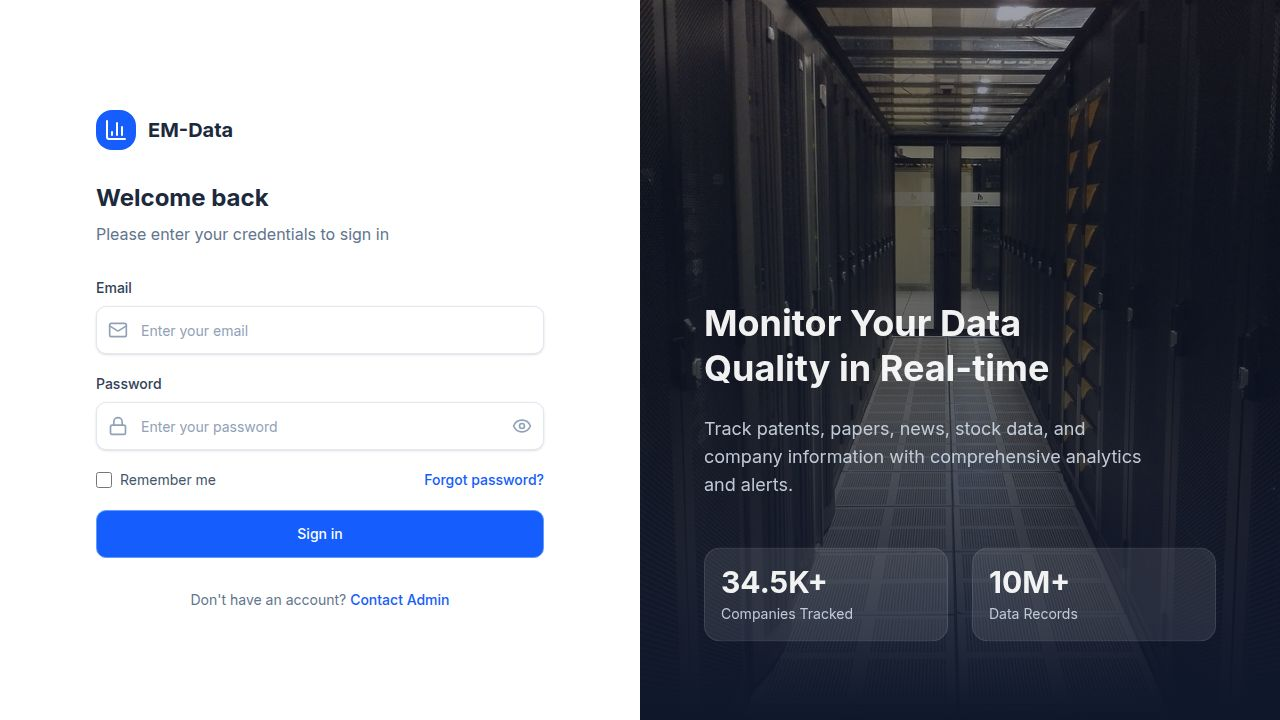
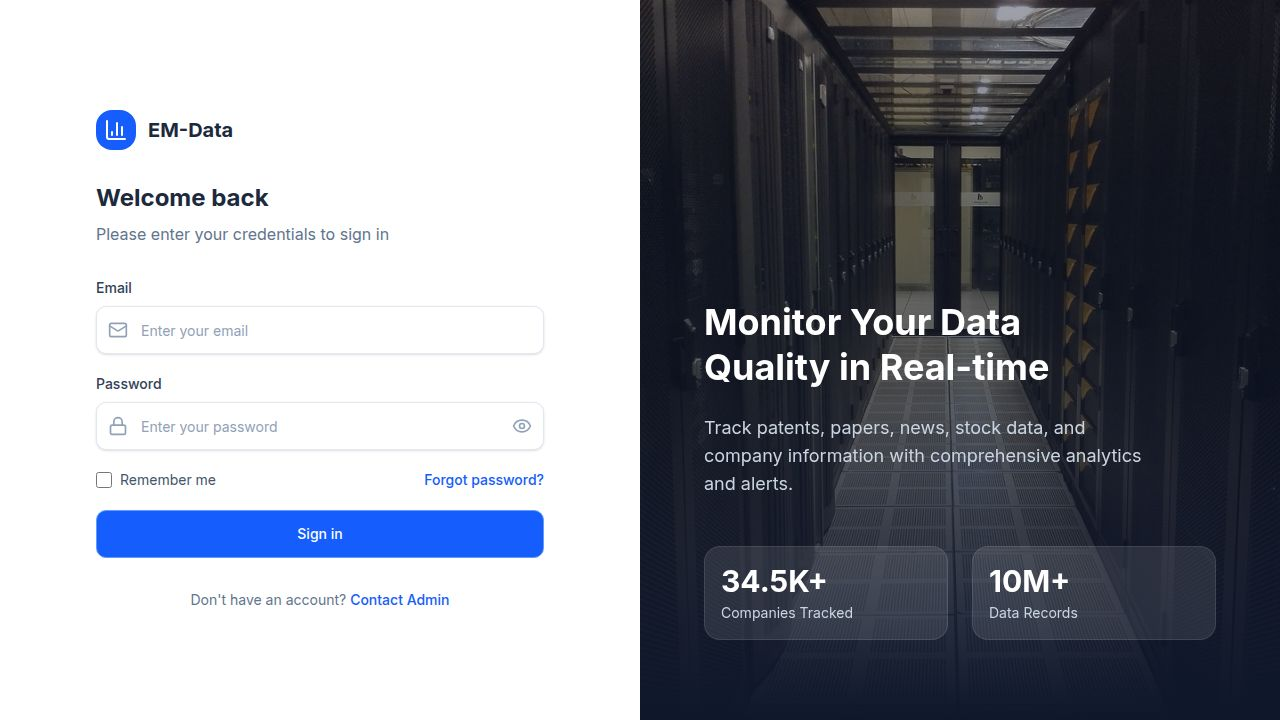
Remove unnecessary slider and text from inspector assignment
Remove decorative slider and "On" text from "Assign Inspectors per Day" section in TestDetail.tsx.

Replit-Commit-Author: Agent
Replit-Commit-Session-Id: d2bd115d-fa95-4ba1-9fe1-994fda3d6723
Replit-Commit-Checkpoint-Type: full_checkpoint
Replit-Commit-Event-Id: 61284ed1-8ba9-4a78-a345-705d3fd755fb
Replit-Commit-Screenshot-Url: https://storage.googleapis.com/screenshot-production-us-central1/8e96d2a4-76c1-459b-b578-cf86d63140d3/d2bd115d-fa95-4ba1-9fe1-994fda3d6723/hkxM1lL
Replit-Helium-Checkpoint-Created: true

diff --git a/client/src/pages/TestDetail.tsx b/client/src/pages/TestDetail.tsx
@@ -831,13 +831,7 @@ export default function TestDetail() {
 
                   <div>
                     <p className="text-xs text-slate-500 mb-2">Assign Inspectors per Day</p>
-                    <div className="flex items-center gap-2 mb-3">
-                      <div className="w-10 h-5 bg-blue-500 rounded-full relative">
-                        <div className="absolute right-0.5 top-0.5 w-4 h-4 bg-white rounded-full shadow" />
-                      </div>
-                      <span className="text-sm text-slate-600">On</span>
-                    </div>
-                    <div className="flex flex-wrap gap-2">
+                    <div className="flex flex-wrap gap-2 mt-2">
                       {[
                         { day: "Mon", inspector: "John Kim" },
                         { day: "Wed", inspector: "Sarah Lee" },